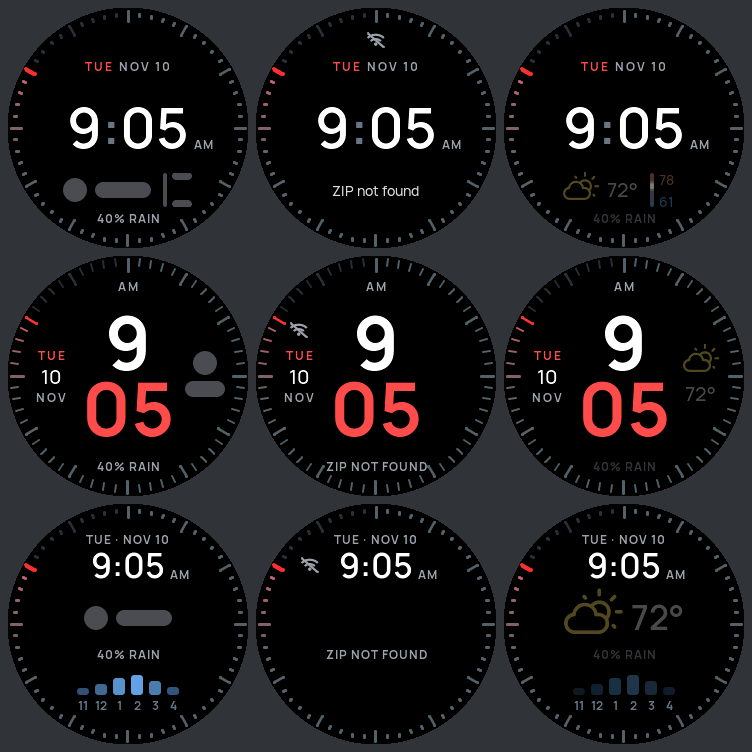
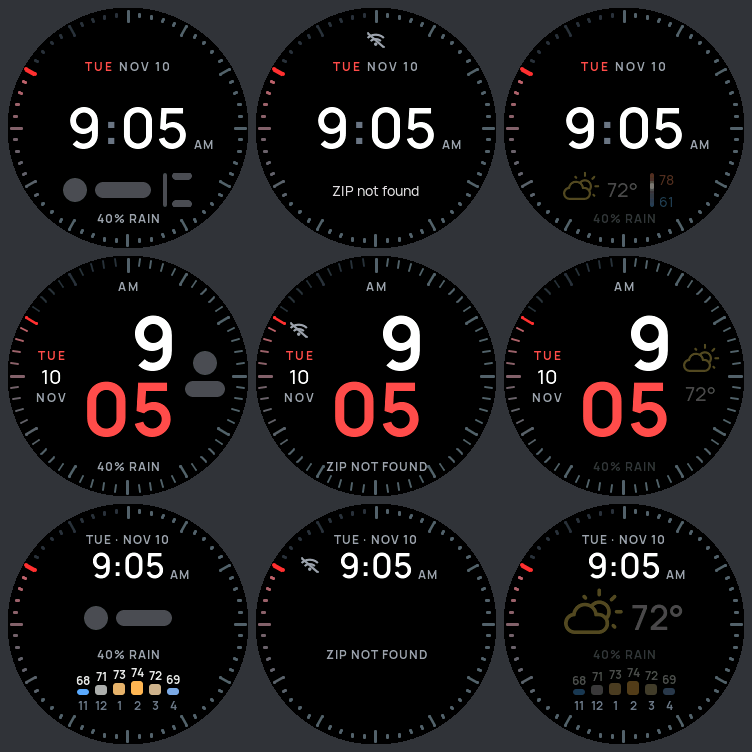
Forecast face: show hourly temperatures (with values) instead of flat rain bars on dry days
Fetch hourly temperature_2m alongside precipitation probability; when the next
6 hours are under 30% rain the bars scale by temperature (blue to amber) with
the number above each bar. Clear barTemp pointers in rebuild().

diff --git a/src/ui.cpp b/src/ui.cpp
@@ -283,7 +283,7 @@ static struct {
 static char detailText[32] = "";
 static bool loadingShown = false, staleShown = false, offShown = false;
 static constexpr int RAIN_BARS = 6;
-static int rainPct[RAIN_BARS], rainStart = -1;  // hourly rain chance from the hour `rainStart` (-1 = none)
+static int rainPct[RAIN_BARS], tempHr[RAIN_BARS], rainStart = -1;  // hourly rain chance from the hour `rainStart` (-1 = none)
 static int sunriseMin = -1, sunsetMin = -1;     // minutes after midnight (-1 = unknown)
 
 // ---- Small helpers -----------------------------------------------------------------------
@@ -720,29 +720,64 @@ static void buildSegments(int cy) {
 }
 
 // ---- Forecast: hourly rain-chance bars -----------------------------------------------------------
-static lv_obj_t *bars[RAIN_BARS], *barLbl[RAIN_BARS];
+static lv_obj_t *bars[RAIN_BARS], *barLbl[RAIN_BARS], *barTemp[RAIN_BARS];
 static constexpr int BAR_W = 12, BAR_PITCH = 18, BAR_MAX = 24, BAR_BASE = 191;  // BAR_BASE: y of the bars' bottom edge
+
+// Dry spell (max chance < 30 %) with hourly temperatures known: the bars show temperature instead
+// (scaled between the coolest and warmest of the six hours, cool blue to warm amber).
+static bool barsTempMode() {
+  int mx = -1, ok = 0;
+  for (int k = 0; k < RAIN_BARS; k++) {
+    if (rainPct[k] > mx) mx = rainPct[k];
+    if (tempHr[k] != -32768) ok++;
+  }
+  return mx < 30 && ok == RAIN_BARS;
+}
+
+static void tempRange(int &lo, int &hi) {
+  lo = 32767; hi = -32768;
+  for (int k = 0; k < RAIN_BARS; k++) { if (tempHr[k] < lo) lo = tempHr[k]; if (tempHr[k] > hi) hi = tempHr[k]; }
+}
 
 static void barsPaint() {
   if (!bars[0]) return;
+  bool tm = barsTempMode();
+  int lo = 0, hi = 0;
+  if (tm) tempRange(lo, hi);
   for (int k = 0; k < RAIN_BARS; k++) {
     int p = rainPct[k] < 0 ? 0 : rainPct[k] > 100 ? 100 : rainPct[k];
-    bgc(bars[k], mixDN(mixHex(0x6FB6FF, 0x24384F, p), nightC(18 + p / 2)));
+    uint32_t day = tm ? mixHex(0x5FA8FF, 0xFFB454, hi > lo ? (hi - tempHr[k]) * 100 / (hi - lo) : 50) : mixHex(0x6FB6FF, 0x24384F, p);
+    bgc(bars[k], mixDN(day, nightC(tm ? 40 : 18 + p / 2)));
     tc(barLbl[k], mixDN(THEMES[opt.theme].colon, nightC(45)));
+    tc(barTemp[k], mixDN(0xE6E6E6, nightC(70)));
   }
 }
 
 static void barsUpdate() {
   if (!bars[0]) return;
+  bool tm = barsTempMode();
+  int lo = 0, hi = 0;
+  if (tm) tempRange(lo, hi);
   for (int k = 0; k < RAIN_BARS; k++) {
     bool show = rainStart >= 0;
     setHidden(bars[k], !show);
     setHidden(barLbl[k], !show);
+    setHidden(barTemp[k], !show || !tm);
     if (!show) continue;
     int p = rainPct[k] < 0 ? 0 : rainPct[k] > 100 ? 100 : rainPct[k];
-    int h = 3 + p * (BAR_MAX - 3) / 100, x = 120 - (RAIN_BARS * BAR_PITCH - (BAR_PITCH - BAR_W)) / 2 + k * BAR_PITCH;
+    int tmax = BAR_MAX - 10;  // leave room for the number above
+    int h = tm ? 6 + (hi > lo ? (tempHr[k] - lo) * (tmax - 6) / (hi - lo) : (tmax - 6) / 2)
+               : 3 + p * (BAR_MAX - 3) / 100;
+    int x = 120 - (RAIN_BARS * BAR_PITCH - (BAR_PITCH - BAR_W)) / 2 + k * BAR_PITCH;
     lv_obj_set_size(bars[k], BAR_W, h);
     lv_obj_set_pos(bars[k], x, BAR_BASE - h);
+    if (tm) {
+      char tb[6];
+      snprintf(tb, sizeof(tb), "%d", tempHr[k]);
+      lv_label_set_text(barTemp[k], tb);
+      lv_obj_update_layout(barTemp[k]);
+      lv_obj_set_pos(barTemp[k], x + BAR_W / 2 - lv_obj_get_width(barTemp[k]) / 2, BAR_BASE - h - 17);
+    }
     int hr = (rainStart + k) % 24;
     char buf[4];
     snprintf(buf, sizeof(buf), "%d", opt.h24 ? hr : (hr % 12 == 0 ? 12 : hr % 12));
@@ -759,6 +794,7 @@ static void buildBars() {
     lv_obj_set_style_radius(bars[k], 3, 0);
     lv_obj_set_style_bg_opa(bars[k], LV_OPA_COVER, 0);
     barLbl[k] = mkLabel(content, &manrope_caps_12);
+    barTemp[k] = mkLabel(content, &manrope_caps_12);
   }
 }
 
@@ -1414,7 +1450,7 @@ static void applyStale(uint32_t ms) {
   lv_opa_t to = staleShown ? 90 : LV_OPA_COVER;  // ~35%: still readable, clearly not current
   setOpa(weatherRow, to, ms);
   setOpa(detailBox, to, ms);
-  for (int k = 0; k < RAIN_BARS; k++) setOpa(bars[k], to, ms);
+  for (int k = 0; k < RAIN_BARS; k++) { setOpa(bars[k], to, ms); setOpa(barTemp[k], to, ms); }
 }
 
 void ui_set_weather_stale(bool stale) {
@@ -1512,8 +1548,9 @@ void ui_set_weather(const char *icon, uint32_t iconColor, const char *text, bool
   applyWeather(true);
 }
 
-void ui_set_weather_extra(const int *rain, int count, int startHour, int sunrise, int sunset) {
+void ui_set_weather_extra(const int *rain, int count, int startHour, int sunrise, int sunset, const int *temps) {
   for (int k = 0; k < RAIN_BARS; k++) rainPct[k] = rain && k < count ? rain[k] : -1;
+  for (int k = 0; k < RAIN_BARS; k++) tempHr[k] = temps && k < count ? temps[k] : -32768;
   rainStart = rain && count > 0 ? startHour : -1;
   sunriseMin = sunrise;
   sunsetMin = sunset;
@@ -1539,6 +1576,7 @@ static void rebuild() {
   memset(segColon, 0, sizeof(segColon));
   memset(bars, 0, sizeof(bars));
   memset(barLbl, 0, sizeof(barLbl));
+  memset(barTemp, 0, sizeof(barTemp));
   memset(swaps, 0, sizeof(swaps));
   floatAmpm = false;
   lastMin = lastHour = lastDay = ringSec = -1;
@@ -1573,6 +1611,7 @@ void ui_init() {
   lv_obj_set_style_pad_all(scr, 0, 0);
   lv_obj_remove_flag(scr, LV_OBJ_FLAG_SCROLLABLE);
   for (int &p : rainPct) p = -1;
+  for (int &t : tempHr) t = -32768;
 
   faceRoot = box(scr);
   lv_obj_set_size(faceRoot, 240, 240);

diff --git a/src/weather.cpp b/src/weather.cpp
@@ -15,6 +15,7 @@ struct Extra {
   float feels = 0;
   int rainPct = -1;
   int rainHours[WeatherData::RAIN_HOURS] = {-1, -1, -1, -1, -1, -1};
+  int tempHours[WeatherData::RAIN_HOURS] = {-32768, -32768, -32768, -32768, -32768, -32768};
   int rainStartHour = -1, sunriseMin = -1, sunsetMin = -1;
 };
 
@@ -25,6 +26,7 @@ static void publish(bool valid, float temp, int code, bool isDay, float hi, floa
     g_data.feels = ex.feels;
     g_data.rainPct = ex.rainPct;
     memcpy(g_data.rainHours, ex.rainHours, sizeof(g_data.rainHours));
+    memcpy(g_data.tempHours, ex.tempHours, sizeof(g_data.tempHours));
     g_data.rainStartHour = ex.rainStartHour;
     g_data.sunriseMin = ex.sunriseMin;
     g_data.sunsetMin = ex.sunsetMin;
@@ -151,7 +153,7 @@ static bool fetchCurrent(float lat, float lon, char unit, float &temp, int &code
                          bool &hasRange, Extra &ex) {
   String body;
   String url = "https://api.open-meteo.com/v1/forecast?current=temperature_2m,apparent_temperature,weather_code,is_day"
-               "&daily=temperature_2m_max,temperature_2m_min,sunrise,sunset&hourly=precipitation_probability&forecast_hours=" +
+               "&daily=temperature_2m_max,temperature_2m_min,sunrise,sunset&hourly=precipitation_probability,temperature_2m&forecast_hours=" +
                String(RAIN_HOURS) + "&forecast_days=1&timezone=auto&temperature_unit=" +
                String(unit == 'C' ? "celsius" : "fahrenheit") + "&latitude=" + String(lat, 4) + "&longitude=" + String(lon, 4);
   if (!httpsGet(url, body)) return false;
@@ -180,6 +182,20 @@ static bool fetchCurrent(float lat, float lon, char unit, float &temp, int &code
       }
       const char *comma = strchr(end, ','), *close = strchr(end, ']');
       if (!comma || (close && close < comma)) break;  // that was the last entry
+      p = comma + 1;
+    }
+  }
+
+  // Hourly temperature (same slots), for the Forecast face when no rain is expected.
+  int tarr = hr >= 0 ? body.indexOf("\"temperature_2m\":[", hr) : -1;
+  if (tarr >= 0) {
+    const char *p = body.c_str() + tarr + strlen("\"temperature_2m\":[");
+    for (int n = 0; n < RAIN_HOURS && *p && *p != ']'; n++) {
+      char *end;
+      double v = strtod(p, &end);
+      if (end != p) ex.tempHours[n] = (int)lround(v);
+      const char *comma = strchr(end, ','), *close = strchr(end, ']');
+      if (!comma || (close && close < comma)) break;
       p = comma + 1;
     }
   }

diff --git a/src/ui.h b/src/ui.h
@@ -62,7 +62,8 @@ void ui_set_weather(const char *icon, uint32_t iconColor, const char *text, bool
 
 // Extra weather data some faces use: rain chance for the next `count` hours starting at local hour
 // `startHour` (rain may be nullptr), and today's sunrise/sunset in minutes after midnight (-1 = unknown).
-void ui_set_weather_extra(const int *rain, int count, int startHour, int sunriseMin, int sunsetMin);
+void ui_set_weather_extra(const int *rain, int count, int startHour, int sunriseMin, int sunsetMin,
+                           const int *temps = nullptr);
 
 // Small line under the weather row, e.g. "40% rain" or "Feels 65°"; "" fades it away.
 void ui_set_weather_detail(const char *text);

diff --git a/src/weather.h b/src/weather.h
@@ -13,6 +13,7 @@ struct WeatherData {
   int rainPct = -1;       // highest precipitation probability over the next few hours, -1 if unknown
   static constexpr int RAIN_HOURS = 6;
   int rainHours[RAIN_HOURS] = {-1, -1, -1, -1, -1, -1};  // hourly precipitation probability, -1 if unknown
+  int tempHours[RAIN_HOURS] = {-32768,-32768,-32768,-32768,-32768,-32768};  // hourly temperature (rounded), -32768 if unknown
   int rainStartHour = -1; // local hour (0-23) of rainHours[0], -1 if unknown
   int sunriseMin = -1, sunsetMin = -1;  // today's sunrise/sunset, minutes after local midnight (-1 if unknown)
   uint32_t fetchedAt = 0; // millis() of the last successful fetch (to spot stale data)

diff --git a/src/main.cpp b/src/main.cpp
@@ -165,7 +165,8 @@ void loop() {
         ui_set_weather(icon, color, buf, w.hasRange, (int)lroundf(w.lo), (int)lroundf(w.hi), w.temp, weather_fall(w.code));
         weatherDetail(w, buf, sizeof(buf));
         ui_set_weather_detail(buf);
-        ui_set_weather_extra(w.rainHours, WeatherData::RAIN_HOURS, w.rainStartHour, w.sunriseMin, w.sunsetMin);
+        ui_set_weather_extra(w.rainHours, WeatherData::RAIN_HOURS, w.rainStartHour, w.sunriseMin, w.sunsetMin,
+                            w.tempHours);
       } else {
         ui_set_weather(nullptr, 0, w.error, false, 0, 0, 0);
         ui_set_weather_extra(nullptr, 0, -1, -1, -1);

diff --git a/docs/tools/sim/sim.cpp b/docs/tools/sim/sim.cpp
@@ -32,7 +32,8 @@ static void weather(bool rainy) {
   if (rainy) ui_set_weather("\xEF\x80\x99", 0x4DA3FF, "72\xC2\xB0", true, 61, 78, 72, 0);
   else ui_set_weather("\xEF\x80\x82", 0xFFD66B, "72\xC2\xB0", true, 61, 78, 72, 0);
   ui_set_weather_detail("40% rain");
-  ui_set_weather_extra(rain, 6, 11, 6 * 60 + 42, 17 * 60 + 21);
+  static const int dry[6] = {0, 0, 5, 10, 0, 0}, temps[6] = {68, 71, 73, 74, 72, 69};
+  ui_set_weather_extra(rainy ? rain : dry, 6, 11, 6 * 60 + 42, 17 * 60 + 21, temps);
 }
 int main(int argc, char **argv) {
   std::string out = argc > 1 ? argv[1] : ".";
